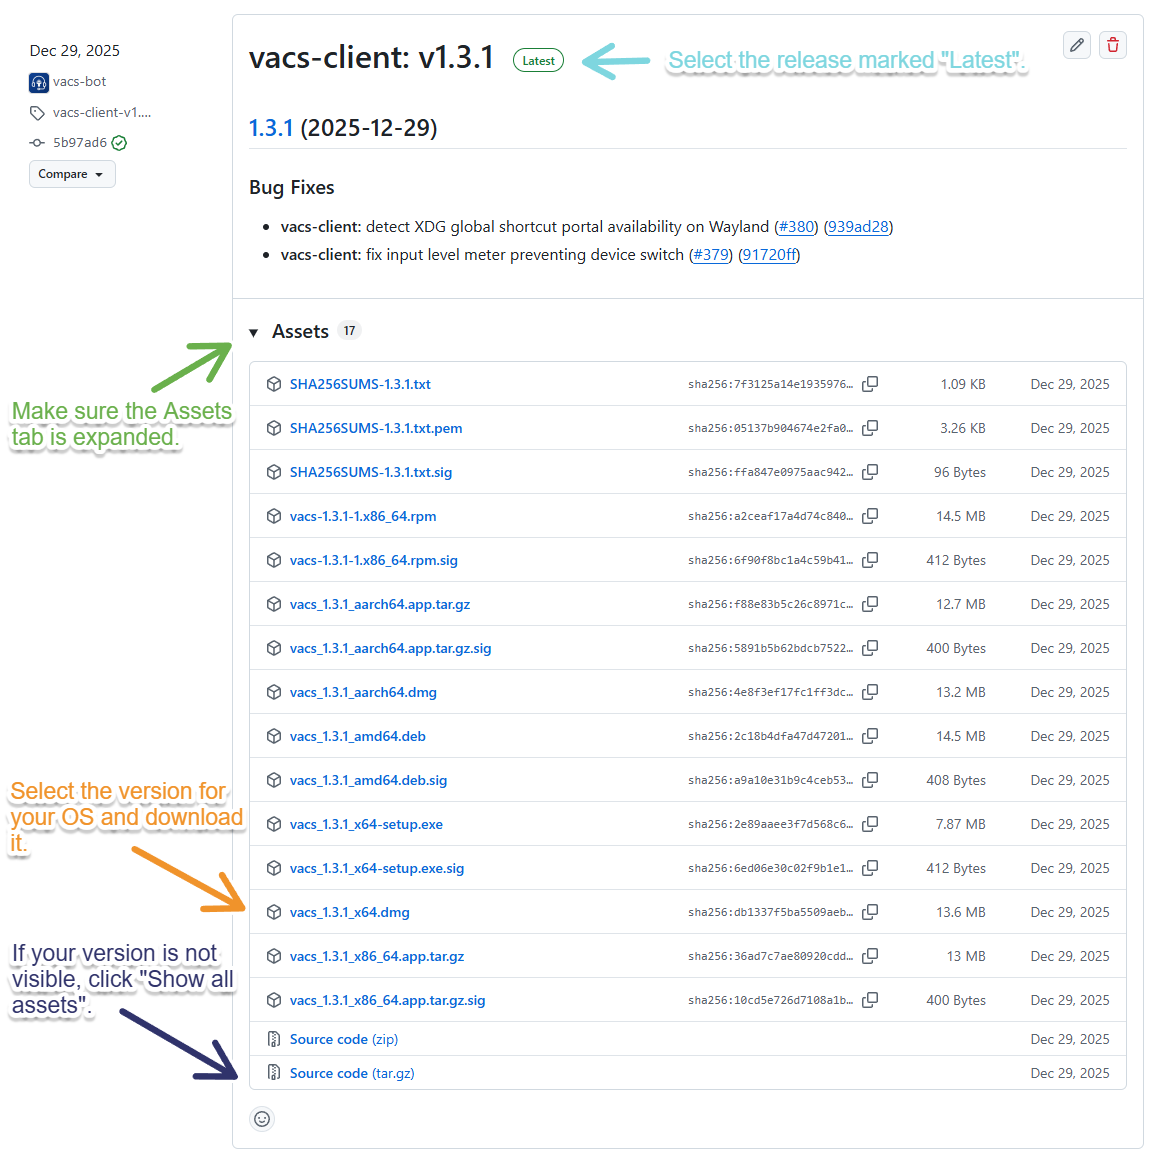
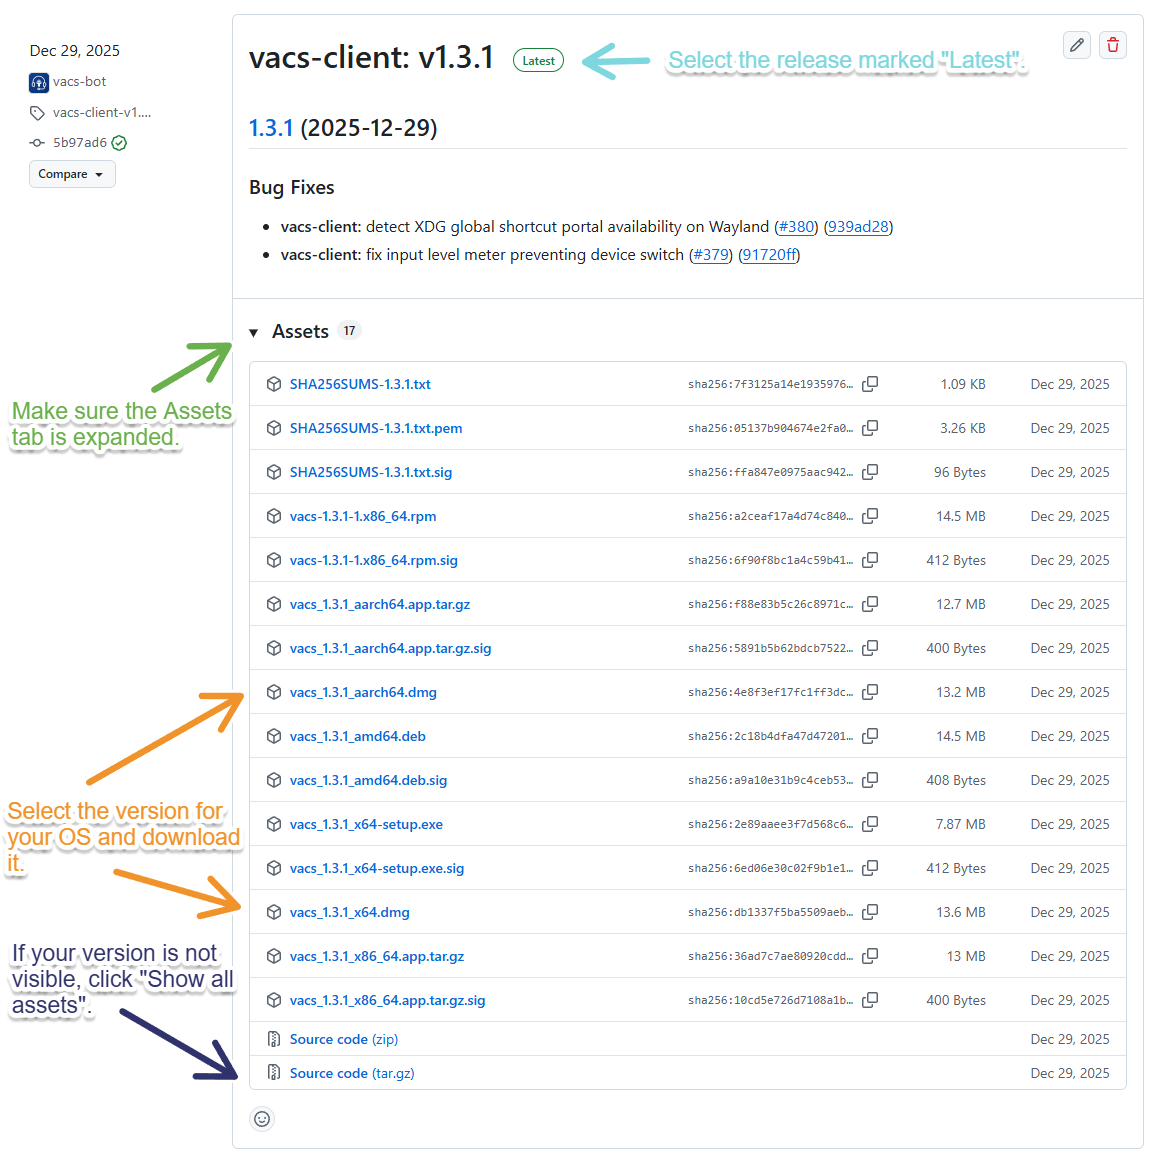
minor changes

Changed region(s): [[0.0, 0.5897, 0.2159, 0.8069]]

diff --git a/docs/getting-started/installation.md b/docs/getting-started/installation.md
@@ -56,7 +56,7 @@ To install vacs on Linux, follow the instructions below:
 - Visit the [GitHub Releases page](https://github.com/MorpheusXAUT/vacs/releases) of vacs.
 - To download the latest stable version of vacs, find the release marked **Latest**.
 - If not already done, expand the **Assets** Tab.
-- Download the correct installer for your system. For **Linux**, this file has the ending `x86_64.rpm` or `_amd64.deb`.
+- Download the correct installer for your system. For **Linux**, this file has the ending `x86_64.rpm` (Linux rpm) or `_amd64.deb` (Linux deb).
 
 :::tip
 If you don’t see your file, click **Show all assets** to display the complete list.
@@ -90,7 +90,7 @@ To install vacs on macOS, follow the instructions below:
 - Visit the [GitHub Releases page](https://github.com/MorpheusXAUT/vacs/releases) of vacs.
 - To download the latest stable version of vacs, find the release marked **Latest**.
 - If not already done, expand the **Assets** Tab.
-- Download the correct installer for your system. For **macOS**, this file has the ending `_x64.dmg`.
+- Download the correct installer for your system. For **macOS**, this file has the ending `_x64.dmg` (Apple Intel) or `_aarch64.dmg` (Apple Silicon).
 
 :::tip
 If you don’t see your file, click **Show all assets** to display the complete list.
